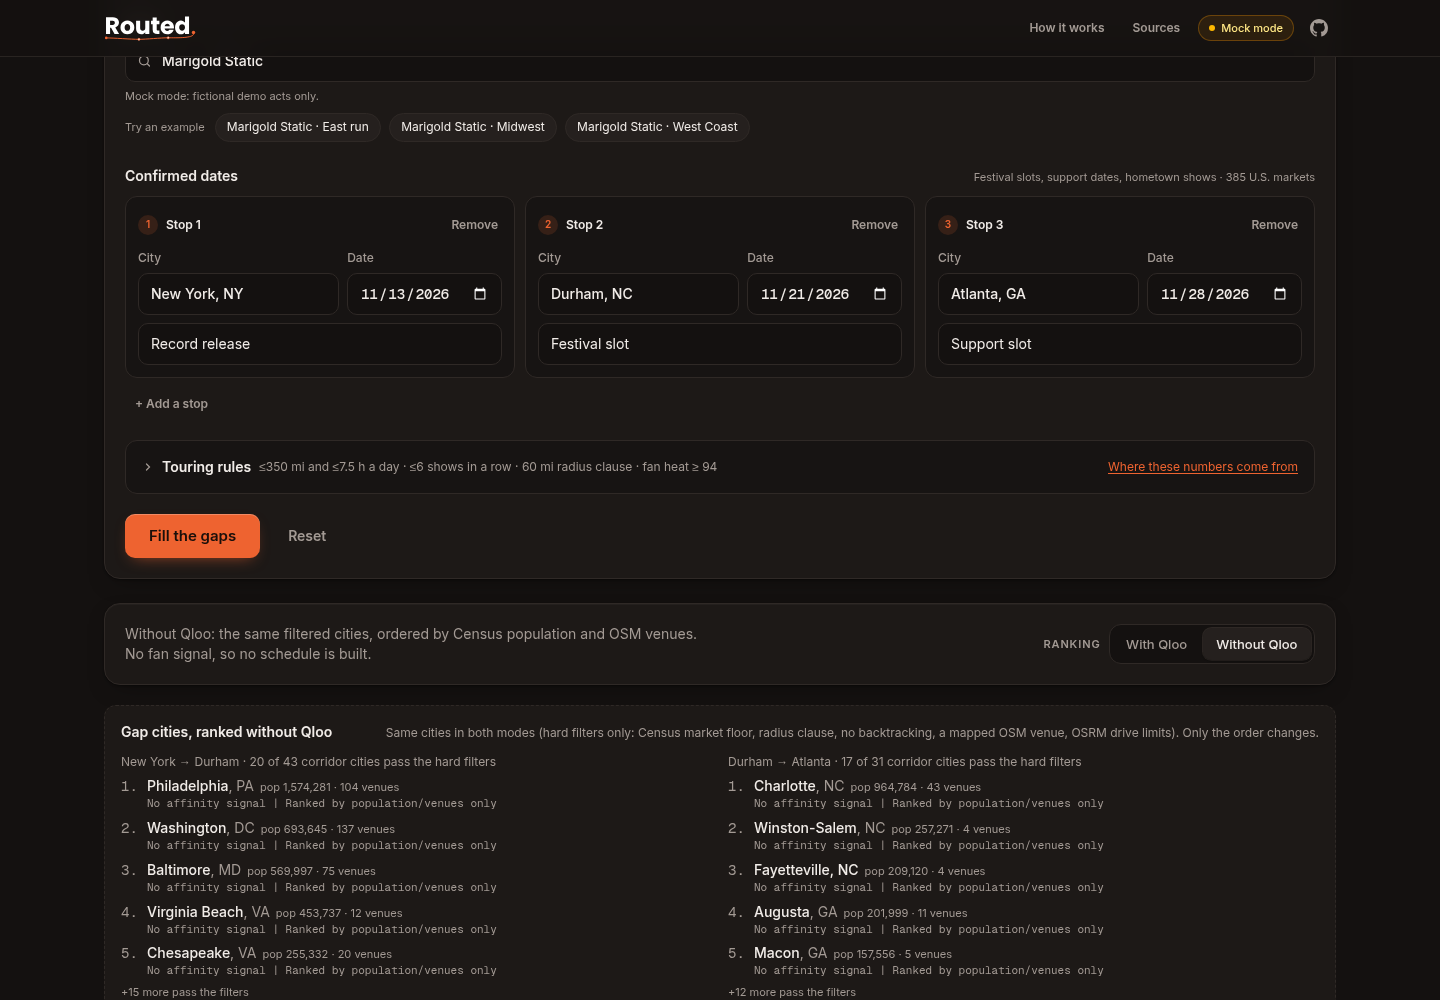
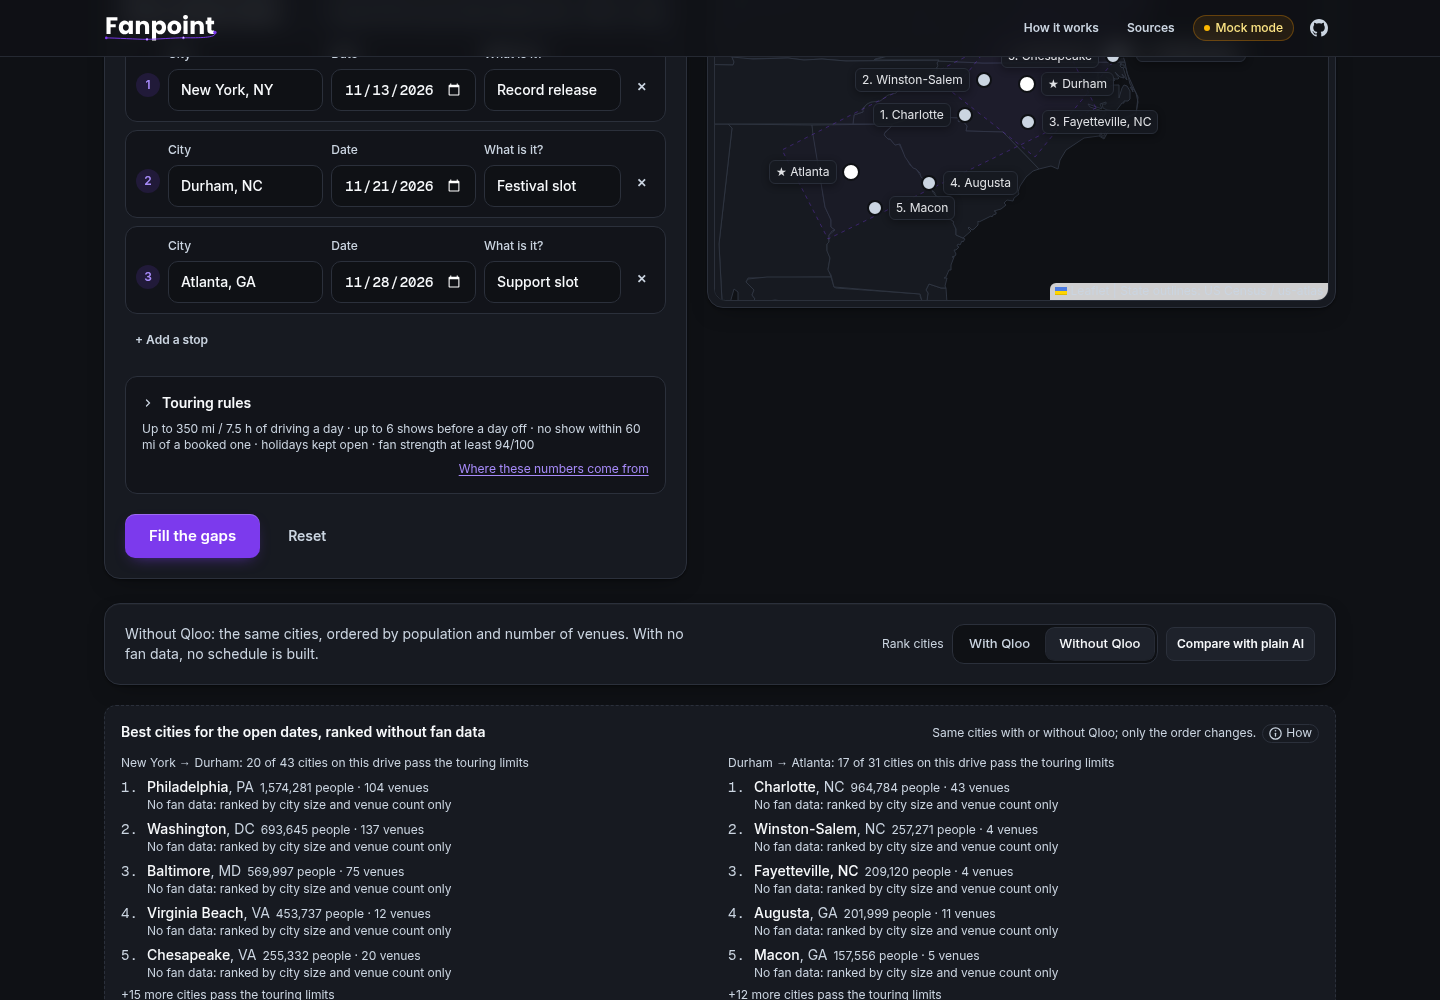
Docs match the live build: map-first readable UI, plain-English labels, Fans here also like and the tour card, 65-101 Qloo calls per run, 406 tests; fresh mock screenshots (15, 16 new); screens script selectors updated

diff --git a/README.md b/README.md
@@ -25,8 +25,18 @@ Qloo access and audits that plan with the same touring rules.
 > banner says so on every screen. Without an LLM key, the plain-AI baseline is a **simulated** heuristic (labeled SIMULATED),
 > not a model output. Add keys ([`docs/ENV.md`](docs/ENV.md)) and the identical code path goes live.
 
-![Fill the gaps](screens/03-fill-the-gaps.png)
+![Fill the gaps: form beside the route map, readable stats](screens/03-fill-the-gaps.png)
+![A stop card with "Fans here also like" (Qloo cross-domain taste)](screens/15-fans-also-like.png)
+![Across the tour: picks that come up in two or more cities](screens/16-tour-also-like.png)
 ![Co-headliner match](screens/08-cohead-complementarity-map.png)
+
+Screenshots in `screens/` are mock-mode captures of the current build (fictional "(mock)" acts). Live captures stay out of the repo (Qloo terms; see `docs/DEPLOY.md`).
+
+## What you see
+
+- **Map first.** The form sits beside the route map, so the map is visible on first load; the result stats read in plain English ("Open dates we filled 8 of 13", "Shows that broke touring limits: 0").
+- **Plain-English labels.** "fans" (not "heat"), "open" (not "OFF"), "too few fans", "too close to a booked show". Longer explanations sit behind ⓘ info buttons; the Qloo request log sits behind **Show trace**. Text is at least 12 px.
+- **Fans here also like.** Every filled stop lists what the act's fans in that city also like outside music, from Qloo: brands (fashion brands marked from Qloo's own tags), podcasts, food and drink, TV, film, books, video games, people and travel destinations. Each row carries a fixed plain-English use (sponsor or merch collab, ad read or guest spot, pre-show spot or hospitality partner, themed promo…). An **Across the tour** card lists the picks that come up in two or more filled cities. Names are Qloo results picked in code; only the promo ideas marked "AI" are model-written, and number-checked.
 
 ## Who it's for
 
@@ -43,9 +53,10 @@ All calls are `GET https://hackathon.api.qloo.com/...` with `X-Api-Key`, made se
 | Where the fans are **along each drive** | `/v2/insights?filter.type=urn:heatmap&signal.interests.entities=<act>&filter.location=POLYGON(<corridor>)` | One heatmap per anchor-to-anchor corridor (a buffered polygon around the leg). Each touring city takes the strongest cell within 5 mi (15 mi on the coarser lower-48 heatmap), and cities are ranked by that fan heat |
 | Fallback city ranking | `/v2/insights?filter.type=urn:entity:destination&signal.interests.entities=…&filter.location=POLYGON(…)` | Used only if a corridor heatmap returns no cells |
 | Room category | `/v2/tags?filter.query=music venue&filter.tag.types=urn:tag:category:place` | Venue tag id |
-| Rooms per fill | `/v2/insights?filter.type=urn:entity:place&signal.interests.entities=…&filter.location.query=<city>&filter.tags=<venue tag>` | Rooms whose crowd matches the act |
+| Rooms per fill | `/v2/insights?filter.type=urn:entity:place&signal.interests.entities=…&filter.location=POINT(<market centre>)&filter.location.radius=16000&filter.tags=<venue tags>` | Rooms whose crowd matches the act |
 | Support act per fill | `/v2/insights?filter.type=urn:entity:artist&signal.interests.entities=…&signal.location.query=<city>&filter.exclude.entities=…&filter.popularity.max=<act popularity>` | Local, taste-adjacent, no bigger than the act |
 | Promo hooks per fill | `urn:entity:brand` and `urn:entity:podcast` with `signal.location.query=<city>` | Cross-domain partner ideas |
+| Fans here also like (per fill, in code after routing) | `urn:entity:tv_show`, `urn:entity:movie`, `urn:entity:book`, `urn:entity:videogame`, `urn:entity:person`, `urn:entity:destination` with `signal.location.query=<city>`; restaurants: `urn:entity:place` + `filter.tags=urn:tag:category:place:restaurant` + the market POINT/radius | Cross-domain taste per stop and across the tour. Places are kept only if their Qloo category is food or drink. A category that returns 403 or errors is dropped for the rest of the run; one that is empty is left off that stop. All nine categories returned data on live Qloo (2026-10-30) |
 | Co-headliner candidates | `/v2/insights?filter.type=urn:entity:artist&signal.interests.entities=…&filter.popularity.min/max=<band>` | Peers in the act's popularity band |
 | Complementarity | `/v2/insights?filter.type=urn:heatmap&signal.interests.entities=<each act>&filter.location=POLYGON(lower 48)` | Per-city fan heat for both acts, then the score below |
 
@@ -101,6 +112,7 @@ Browser ─POST /api/plan─▶ agent loop (src/lib/agent/run.ts) ─NDJSON even
                             ▼
                          tools (src/lib/agent/tools.ts)
                             fill:   resolve_artist → scan_corridor ×gaps → fill_gaps (code) → get_city_intel ×fills → submit_fill
+                                    (on submit, in code: run_support, then cross_domain "Fans here also like")
                             cohead: resolve_artist (+partner) → find_peer_acts → compare_fan_geography (code) → submit_cohead
                             │
                             ▼
@@ -139,7 +151,7 @@ Browser ─POST /api/plan─▶ agent loop (src/lib/agent/run.ts) ─NDJSON even
 - **Base-URL allowlist.** The Qloo key is only sent over https to `hackathon.api.qloo.com` or `api.qloo.com`. Any other `QLOO_BASE_URL` (a proxy or a local mock) must also be set, exactly, in `QLOO_TRUSTED_BASE_URL`. Otherwise the run stops with a config error before any request goes out.
 - **Rate limit.** Request starts are spaced ≥ 220 ms apart per process (~4.5 req/s). Qloo doesn't publish a number; the developer guide only says limits are "set high enough" and can be raised on Discord, so this is a self-imposed ceiling. Each run is also capped at 150 Qloo network calls to protect the monthly quota.
 - **Validation.** Every Qloo and LLM response is checked with zod. A wrong envelope fails that call with `invalid_response`; single bad items (an entity without an id, a heat cell without affinity) are dropped and counted in the trace. Tool arguments from the model are validated against the same schemas that generate the tool definitions, and the user's touring rules always override the model's.
-- **Graceful degradation.** A failed corridor heatmap falls back to Qloo destination insights; if both fail, that gap stays open and the result says so. One failed city-intel sub-call only empties that list. A failed peer heatmap drops that peer. These show as "Partial data" warnings next to the plan.
+- **Graceful degradation.** Cross-domain lookups ("Fans here also like") never fail a run: any error just leaves that category out, and they stop at 135 Qloo calls so the 150-call cap is never reached. A live fill makes about 65–101 Qloo calls (5–8 filled cities, measured 2026-10-30). A failed corridor heatmap falls back to Qloo destination insights; if both fail, that gap stays open and the result says so. One failed city-intel sub-call only empties that list. A failed peer heatmap drops that peer. These show as "Partial data" warnings next to the plan.
 - **Clear errors.** Fatal problems (bad key, rate limited after retries, budget, LLM down) end the run with a typed error. The UI shows what happened, which provider, and a "Try again" button when retrying can help.
 - **Keys stay on the server.** `config.ts` and both HTTP clients import `server-only`, so the build fails if a client component imports them. CI builds with canary key values and `npm run check:bundle` proves that neither the values nor server-only markers (Qloo host, `X-Api-Key`, `/chat/completions`) appear in the client bundle.
 - **API input.** `POST /api/plan` accepts JSON only (415 otherwise), ≤ 8 KB (413), strict schemas (unknown keys rejected), real calendar dates, 2–4 anchors with distinct dates and cities, a tour of ≤ 45 days, and printable text.
@@ -163,6 +175,9 @@ npm run ci           # everything CI runs: lint, typecheck, coverage, build, bun
 - `tests/deterministic.test.ts`: models that try to decide. They invent numbers, skip city intel, pick their own peers or widen the corridor, and code wins every time. Also unit tests for `vetText`.
 - `tests/data.test.ts`: data integrity for the market universe and the OSRM matrix. Covers known drives, road distance ≥ straight line, near-symmetry, decoding, and lookups. Also checks that every rule has a `docs/SOURCES.md` entry and that cited rules have sources.
 - `tests/api.test.ts`, `tests/stream.test.ts`: request validation, the NDJSON route, and the browser stream reader.
+- `tests/crossdomain.test.ts`: "Fans here also like": display order, no extra model turns, a 403 category asked once then dropped, errors that are fatal elsewhere (rate limit) never fail the run, the call-cap guard, the food-and-drink filter, the tour card, fashion tags.
+
+406 tests in 22 files (2026-10-30).
 
 CI (`.github/workflows/ci.yml`) runs lint, typecheck, tests with coverage, build and the bundle check on every push and PR.
 
@@ -213,6 +228,7 @@ Every decision point in the code, and whether it depends on Qloo. "Without Qloo"
 | Ranked gap-city list | `rankGaps` | Qloo affinity desc; ties by the heat cell's Qloo popularity | Census city population desc; ties by OSM venue count |
 | Corridor filter table order | `fillGap` `considered` | Qloo affinity | n/a |
 | Support act, rooms, brand/podcast hooks | `get_city_intel` | Top Qloo Insights results (rooms filtered by Qloo's music-venue tag) | n/a |
+| "Fans here also like", "Across the tour" | `Tools.crossDomain`, `tourAlsoLike` | Top Qloo Insights results per category, in Qloo's order; tour card = picks seen in 2+ filled cities. Shows only, decides nothing | n/a |
 | "Why this stop" | `WhyFacts` | Explains only: Qloo heat + rank, OSRM leg, night weight, Census, OSM. Chooses nothing | n/a |
 | Co-headliner peers | `find_peer_acts` | Qloo artist insights in a Qloo popularity band | Same names, shown alphabetically |
 | Co-headliner ranking and "recommended" | `complementarity`, `compareGeography` | Per-city Qloo affinity of both acts (strong/weak thresholds); ties by combined strong cities | Unranked, nothing recommended |

diff --git a/docs/DEVPOST_SUBMISSION.md b/docs/DEVPOST_SUBMISSION.md
@@ -45,10 +45,11 @@ With vs without Qloo on the same filtered cities: on the 34 legs with more than 
 - An optimiser fills open days by fan heat × night-of-week weight, or leaves the night off.
 - One support act opens the whole run: the Qloo match that is a local fit in the most filled cities and clearly smaller than the headliner, with the taste they share.
 - Each stop names a Qloo venue (address, website, size tier, capacity where Qloo's text states one), the top 3 fan neighbourhoods and promo partners. **Why this stop** cites a source for every line.
+- **Fans here also like:** each stop lists what the act's fans in that city like outside music (Qloo cross-domain taste): brands (fashion brands marked), podcasts, food and drink, TV, film, books, video games, people and travel, each row with a plain-English use (sponsor, merch, promo, pre-show). **Across the tour** lists picks that come up in two or more cities. Names are Qloo results picked in code; these lookups add no AI turns and change no routing pick.
 - Each stop gets a hold-request draft (nothing is sent); the run exports to `.ics`.
 
 ## Try it: one-click examples
-Open the live link and click an example (each run takes 45–60 s):
+Open the live link and click an example (each run takes about 30–70 s):
 - **Japanese Breakfast · East:** New York Nov 13 → Durham Nov 21 → Atlanta Nov 28
 - **Big Thief · Boston to Nashville:** Boston Dec 4 → Washington Dec 11 → Nashville Dec 18
 - **Khruangbin · West Coast:** Seattle Dec 4 → San Francisco Dec 11 → Los Angeles Dec 18
@@ -73,6 +74,7 @@ Then press **Compare with plain AI** for both plans side by side, rule breaks in
 | Which neighbourhoods? | `urn:heatmap` + `output.heatmap.boundary=urn:entity:locality` + same POINT | Top 3 fan neighbourhoods per stop |
 | Who supports? | `urn:entity:artist` + `filter.popularity.max` (headliner − 0.02), nationally and per city with `signal.location.query`; `/v2/analysis/compare` | One opener for the run (most filled cities, then national fit), shared taste; per-city alternatives |
 | Promo hooks | `urn:entity:brand`, `urn:entity:podcast` + `signal.location.query` | Partner ideas |
+| What else do these fans like? | `urn:entity:tv_show`, `movie`, `book`, `videogame`, `person`, `destination` + `signal.location.query`; restaurants via `urn:entity:place` + restaurant tag + POINT/radius | "Fans here also like" per stop, "Across the tour" card |
 | Who could co-headline? | `urn:entity:artist` + `filter.popularity.min/max` | Peers in the same band |
 | Do their markets complement ours? | `urn:heatmap` per act over the lower 48 | City-by-city complementarity |
 | What do the audiences share? | `/v2/analysis/compare`, `urn:demographics`, `urn:entity:place` | Shared tags, age/gender skews, a joint room |
@@ -125,6 +127,8 @@ With mock heat, Fanpoint books 4 of 13 open days (Camden, Baltimore, Richmond, A
 5. Promoter view: a city's top acts, and who fits one room (*new*).
 6. Compare with plain AI: same dates, side by side, rule breaks in red (*new*).
 7. One-click examples (*new*).
+8. Fans here also like: what one city's fans like outside music, with a use per row (*new*).
+9. Across the tour: picks that come up in two or more cities (*new*).
 
 ---
 

diff --git a/docs/DEPLOY.md b/docs/DEPLOY.md
@@ -114,7 +114,7 @@ BASE_URL=http://localhost:3300 npm run eval -- "Act A" "Act B" …   # real Plai
 OUT=screens-live BASE_URL=http://localhost:3300 npm run screens   # live captures, gitignored
 ```
 
-Gemini's free tier is paced in code (6.5 s between LLM calls, `LLM_MIN_INTERVAL_MS`), so a live plan takes about a minute. Live eval output and live screenshots are Qloo-derived: keep them in `baselines/`, `screens-live/` and `docs-live/` (all gitignored).
+Gemini's free tier is paced in code (6.5 s between LLM calls, `LLM_MIN_INTERVAL_MS`), so a live plan takes about 30–70 s and makes about 65–101 Qloo calls (measured 2026-10-30, including the cross-domain "Fans here also like" lookups). Live eval output and live screenshots are Qloo-derived: keep them in `baselines/`, `screens-live/` and `docs-live/` (all gitignored).
 
 You can also point `--base` at the deployed URL. `--only fill-demo,cohead-demo` runs a subset, and `--force` overwrites an existing folder. Expect about 250 Qloo requests in total (250 in mock; live can differ with paging and cache hits). The server's in-memory cache lasts 6 h, so repeat runs within that window are mostly cache hits. Each Qloo request is logged with status `cache` and the response hash it got the first time. The two `*-demo` inputs use fictional mock acts and are expected to fail live with an entity-not-found error. The report lists them under "Errored or missing inputs". The mock values for real artist names are synthetic (hashed profiles), so the mock vs live change in ranking says nothing about quality on its own. Use it to see **what moved and why**.
 
